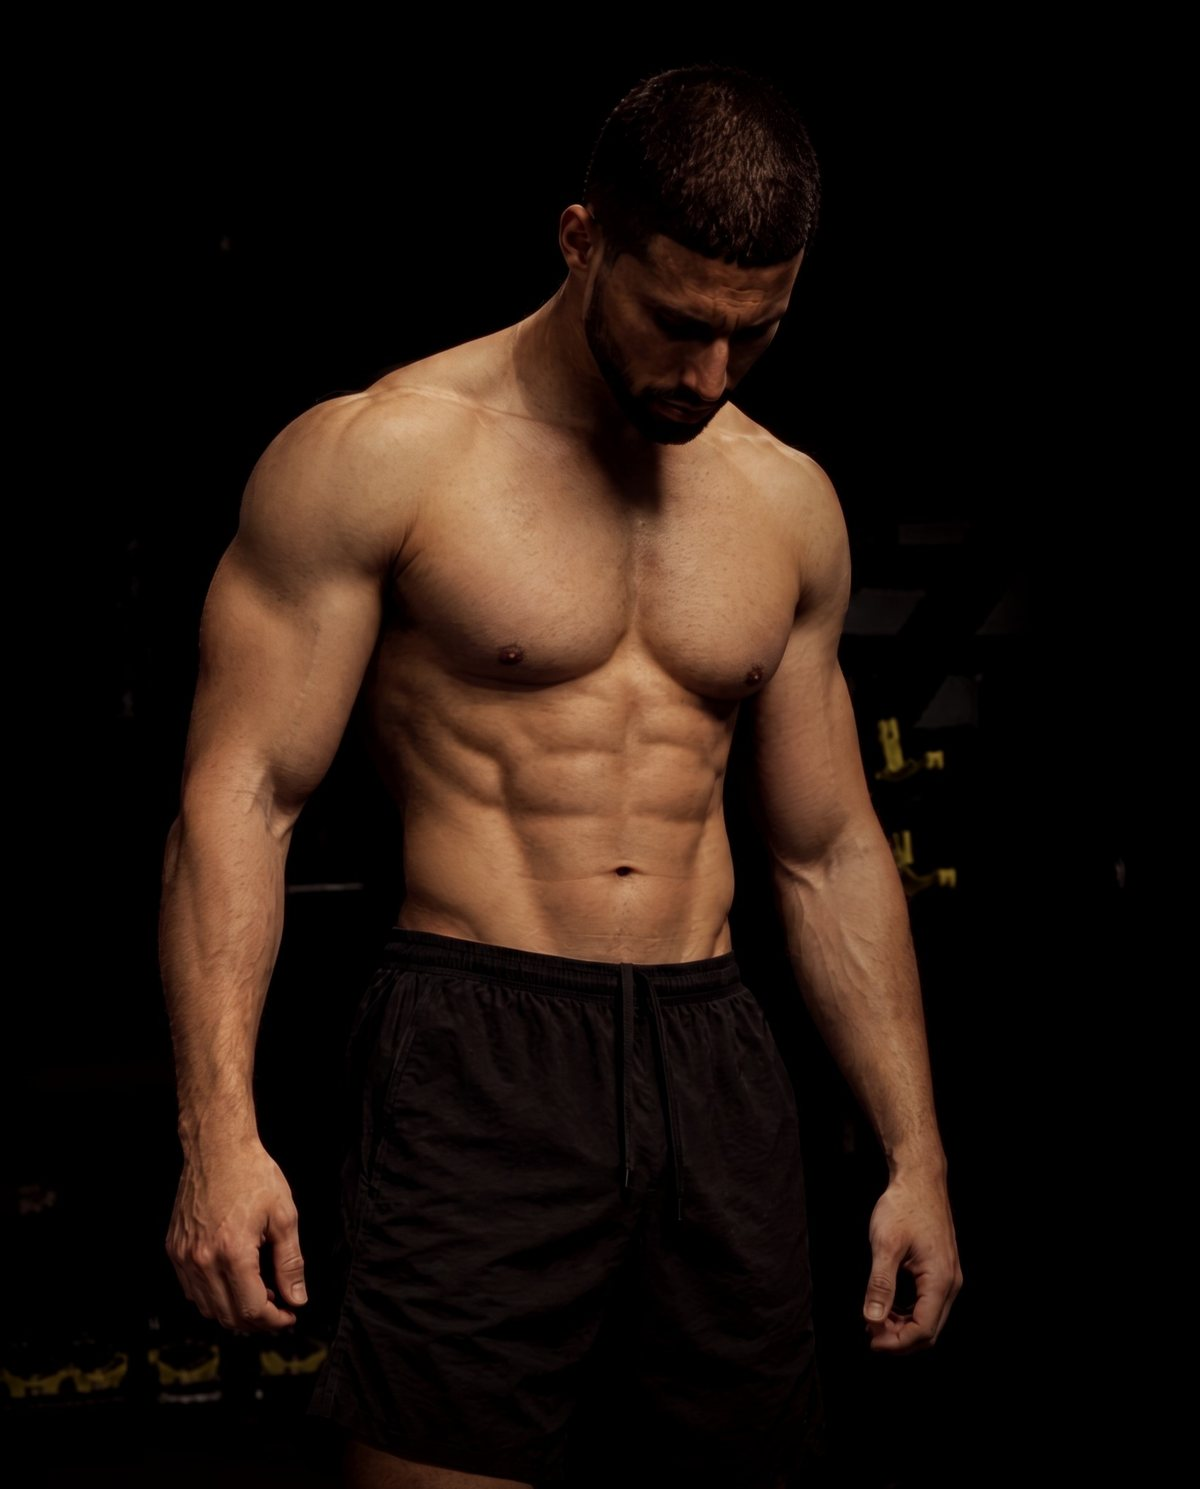
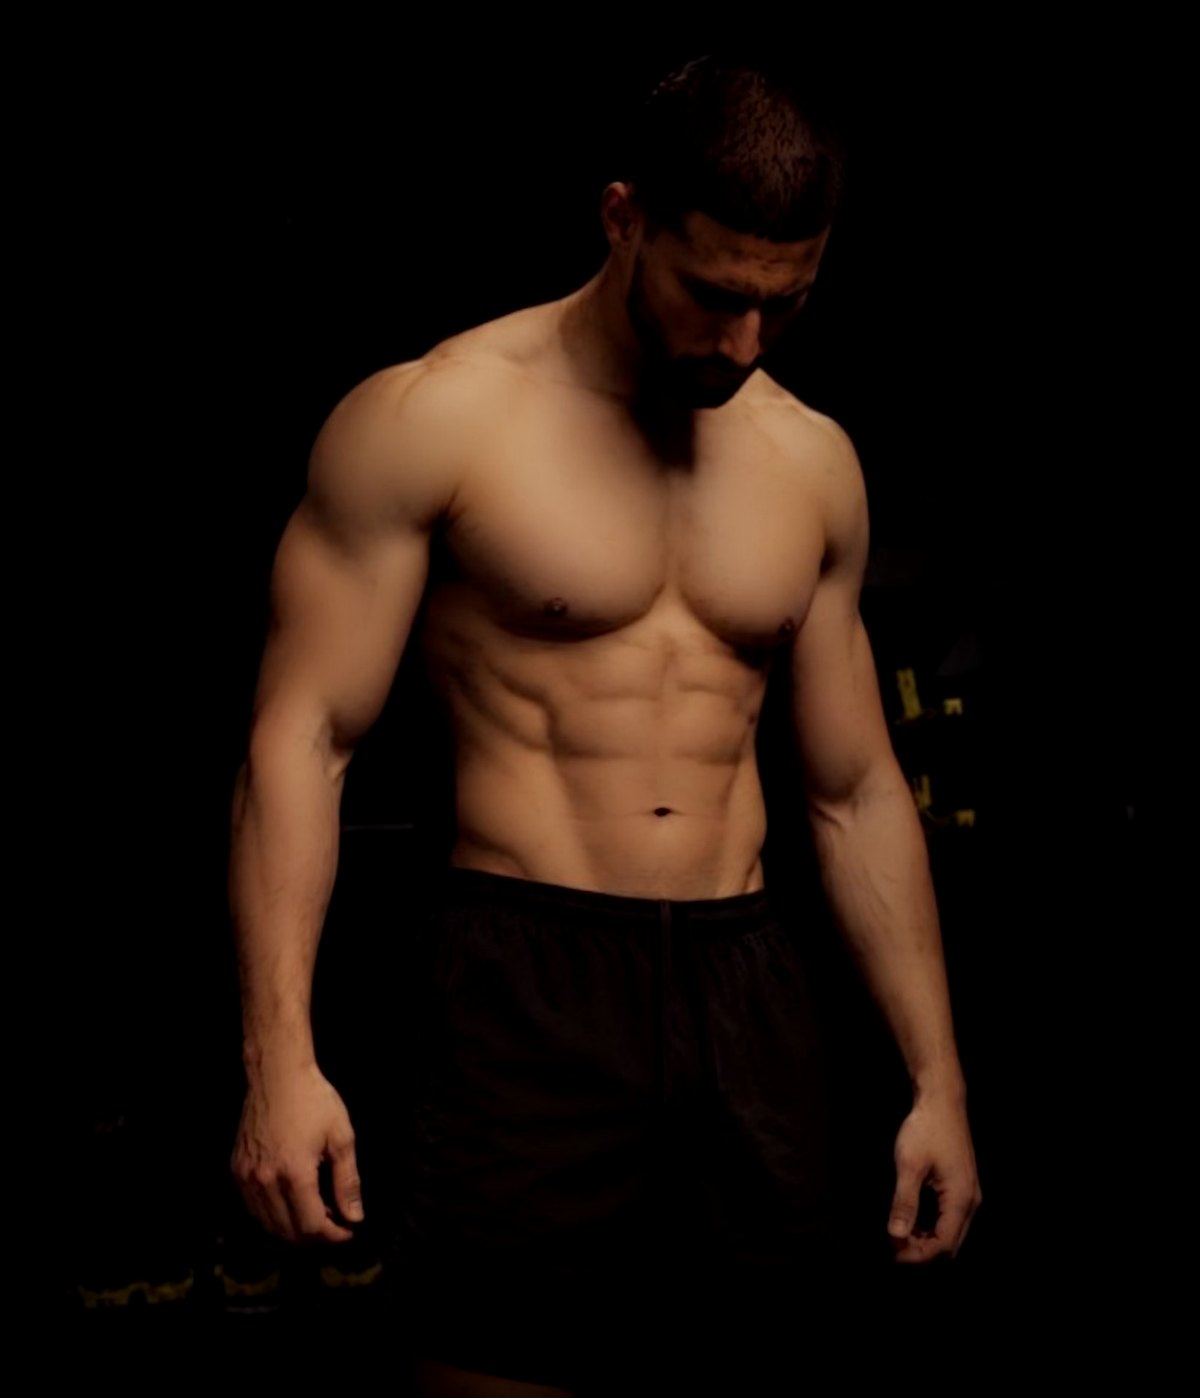
Coaching hero: Cris's edited photo
Claude-Session: https://claude.ai/code/session_01JVtyGLL2rkCAeaZXtAcKGK

diff --git a/coaching.html b/coaching.html
@@ -10,7 +10,7 @@
 <link rel="apple-touch-icon" href="/assets/img/apple-touch-icon.png">
 <link rel="preconnect" href="https://fonts.googleapis.com">
 <link rel="stylesheet" href="https://fonts.googleapis.com/css2?family=Russo+One&family=Bebas+Neue&family=Inter:wght@400;500;600;700&display=swap">
-<link rel="stylesheet" href="/assets/style.css?v=202610272122">
+<link rel="stylesheet" href="/assets/style.css?v=202610272137">
 <script defer src="/_vercel/insights/script.js"></script>
 <script>
 !function(t,e){var o,n,p,r;e.__SV||(window.posthog=e,e._i=[],e.init=function(i,s,a){function g(t,e){var o=e.split(".");2==o.length&&(t=t[o[0]],e=o[1]),t[e]=function(){t.push([e].concat(Array.prototype.slice.call(arguments,0)))}}(p=t.createElement("script")).type="text/javascript",p.crossOrigin="anonymous",p.async=!0,p.src=s.api_host.replace(".i.posthog.com","-assets.i.posthog.com")+"/static/array.js",(r=t.getElementsByTagName("script")[0]).parentNode.insertBefore(p,r);var u=e;for(void 0!==a?u=e[a]=[]:a="posthog",u.people=u.people||[],u.toString=function(t){var e="posthog";return"posthog"!==a&&(e+="."+a),t||(e+=" (stub)"),e},u.people.toString=function(){return u.toString(1)+".people (stub)"},o="init capture register register_once register_for_session unregister unregister_for_session getFeatureFlag getFeatureFlagPayload isFeatureEnabled reloadFeatureFlags updateEarlyAccessFeatureEnrollment getEarlyAccessFeatures on onFeatureFlags onSessionId getSurveys getActiveMatchingSurveys renderSurvey canRenderSurvey identify setPersonProperties group resetGroups setPersonPropertiesForFlags resetPersonPropertiesForFlags setGroupPropertiesForFlags resetGroupPropertiesForFlags reset get_distinct_id getGroups get_session_id get_session_replay_url alias set_config startSessionRecording stopSessionRecording sessionRecordingStarted captureException loadToolbar get_property getSessionProperty createPersonProfile opt_in_capturing opt_out_capturing has_opted_in_capturing has_opted_out_capturing clear_opt_in_out_capturing debug getPageViewId captureTraceFeedback captureTraceMetric".split(" "),n=0;n<o.length;n++)g(u,o[n]);e._i.push([i,s,a])},e.__SV=1)}(document,window.posthog||[]);
@@ -52,8 +52,8 @@ posthog.init('phc_C28JrHMEpH7d9g8dcuLgvfjdZ2WqwZE8aeRjLSCBrC3R',{api_host:'https
     </div>
     <div class="coach-photo">
       <picture>
-        <source srcset="/assets/img/cris-hero.webp" type="image/webp">
-        <img src="/assets/img/cris-hero.jpg" alt="Cris, Gaincations coach" width="1200" height="1489" fetchpriority="high">
+        <source srcset="/assets/img/cris-hero.webp?v=202610272137" type="image/webp">
+        <img src="/assets/img/cris-hero.jpg?v=202610272137" alt="Cris, Gaincations coach" width="1200" height="1398" fetchpriority="high">
       </picture>
     </div>
   </div>
@@ -191,6 +191,6 @@ posthog.init('phc_C28JrHMEpH7d9g8dcuLgvfjdZ2WqwZE8aeRjLSCBrC3R',{api_host:'https
   </div>
 </footer>
 <script>document.getElementById("y").textContent=new Date().getFullYear()</script>
-<script src="/assets/site.js?v=202610272122"></script>
+<script src="/assets/site.js?v=202610272137"></script>
 </body>
 </html>

diff --git a/index.html b/index.html
@@ -13,7 +13,7 @@
 <link rel="apple-touch-icon" href="/assets/img/apple-touch-icon.png">
 <link rel="preconnect" href="https://fonts.googleapis.com">
 <link rel="stylesheet" href="https://fonts.googleapis.com/css2?family=Russo+One&family=Bebas+Neue&family=Inter:wght@400;500;600;700&display=swap">
-<link rel="stylesheet" href="/assets/style.css?v=202610272122">
+<link rel="stylesheet" href="/assets/style.css?v=202610272137">
 <script defer src="/_vercel/insights/script.js"></script>
 <script>
 !function(t,e){var o,n,p,r;e.__SV||(window.posthog=e,e._i=[],e.init=function(i,s,a){function g(t,e){var o=e.split(".");2==o.length&&(t=t[o[0]],e=o[1]),t[e]=function(){t.push([e].concat(Array.prototype.slice.call(arguments,0)))}}(p=t.createElement("script")).type="text/javascript",p.crossOrigin="anonymous",p.async=!0,p.src=s.api_host.replace(".i.posthog.com","-assets.i.posthog.com")+"/static/array.js",(r=t.getElementsByTagName("script")[0]).parentNode.insertBefore(p,r);var u=e;for(void 0!==a?u=e[a]=[]:a="posthog",u.people=u.people||[],u.toString=function(t){var e="posthog";return"posthog"!==a&&(e+="."+a),t||(e+=" (stub)"),e},u.people.toString=function(){return u.toString(1)+".people (stub)"},o="init capture register register_once register_for_session unregister unregister_for_session getFeatureFlag getFeatureFlagPayload isFeatureEnabled reloadFeatureFlags updateEarlyAccessFeatureEnrollment getEarlyAccessFeatures on onFeatureFlags onSessionId getSurveys getActiveMatchingSurveys renderSurvey canRenderSurvey identify setPersonProperties group resetGroups setPersonPropertiesForFlags resetPersonPropertiesForFlags setGroupPropertiesForFlags resetGroupPropertiesForFlags reset get_distinct_id getGroups get_session_id get_session_replay_url alias set_config startSessionRecording stopSessionRecording sessionRecordingStarted captureException loadToolbar get_property getSessionProperty createPersonProfile opt_in_capturing opt_out_capturing has_opted_in_capturing has_opted_out_capturing clear_opt_in_out_capturing debug getPageViewId captureTraceFeedback captureTraceMetric".split(" "),n=0;n<o.length;n++)g(u,o[n]);e._i.push([i,s,a])},e.__SV=1)}(document,window.posthog||[]);
@@ -215,7 +215,7 @@ posthog.init('phc_C28JrHMEpH7d9g8dcuLgvfjdZ2WqwZE8aeRjLSCBrC3R',{api_host:'https
   </div>
 </footer>
 <script>document.getElementById("y").textContent=new Date().getFullYear()</script>
-<script src="/assets/quiz.js?v=202610272122"></script>
-<script src="/assets/site.js?v=202610272122"></script>
+<script src="/assets/quiz.js?v=202610272137"></script>
+<script src="/assets/site.js?v=202610272137"></script>
 </body>
 </html>

diff --git a/agreement.html b/agreement.html
@@ -10,7 +10,7 @@
 <link rel="apple-touch-icon" href="/assets/img/apple-touch-icon.png">
 <link rel="preconnect" href="https://fonts.googleapis.com">
 <link rel="stylesheet" href="https://fonts.googleapis.com/css2?family=Russo+One&family=Bebas+Neue&family=Inter:wght@400;500;600;700&display=swap">
-<link rel="stylesheet" href="/assets/style.css?v=202610272122">
+<link rel="stylesheet" href="/assets/style.css?v=202610272137">
 <script defer src="/_vercel/insights/script.js"></script>
 <script>
 !function(t,e){var o,n,p,r;e.__SV||(window.posthog=e,e._i=[],e.init=function(i,s,a){function g(t,e){var o=e.split(".");2==o.length&&(t=t[o[0]],e=o[1]),t[e]=function(){t.push([e].concat(Array.prototype.slice.call(arguments,0)))}}(p=t.createElement("script")).type="text/javascript",p.crossOrigin="anonymous",p.async=!0,p.src=s.api_host.replace(".i.posthog.com","-assets.i.posthog.com")+"/static/array.js",(r=t.getElementsByTagName("script")[0]).parentNode.insertBefore(p,r);var u=e;for(void 0!==a?u=e[a]=[]:a="posthog",u.people=u.people||[],u.toString=function(t){var e="posthog";return"posthog"!==a&&(e+="."+a),t||(e+=" (stub)"),e},u.people.toString=function(){return u.toString(1)+".people (stub)"},o="init capture register register_once register_for_session unregister unregister_for_session getFeatureFlag getFeatureFlagPayload isFeatureEnabled reloadFeatureFlags updateEarlyAccessFeatureEnrollment getEarlyAccessFeatures on onFeatureFlags onSessionId getSurveys getActiveMatchingSurveys renderSurvey canRenderSurvey identify setPersonProperties group resetGroups setPersonPropertiesForFlags resetPersonPropertiesForFlags setGroupPropertiesForFlags resetGroupPropertiesForFlags reset get_distinct_id getGroups get_session_id get_session_replay_url alias set_config startSessionRecording stopSessionRecording sessionRecordingStarted captureException loadToolbar get_property getSessionProperty createPersonProfile opt_in_capturing opt_out_capturing has_opted_in_capturing has_opted_out_capturing clear_opt_in_out_capturing debug getPageViewId captureTraceFeedback captureTraceMetric".split(" "),n=0;n<o.length;n++)g(u,o[n]);e._i.push([i,s,a])},e.__SV=1)}(document,window.posthog||[]);
@@ -89,7 +89,7 @@ posthog.init('phc_C28JrHMEpH7d9g8dcuLgvfjdZ2WqwZE8aeRjLSCBrC3R',{api_host:'https
   </div>
 </footer>
 <script>document.getElementById("y").textContent=new Date().getFullYear()</script>
-<script src="/assets/site.js?v=202610272122"></script>
+<script src="/assets/site.js?v=202610272137"></script>
 <script>try{posthog.capture("purchase_completed")}catch(e){}</script>
 </body>
 </html>

diff --git a/welcome.html b/welcome.html
@@ -10,7 +10,7 @@
 <link rel="apple-touch-icon" href="/assets/img/apple-touch-icon.png">
 <link rel="preconnect" href="https://fonts.googleapis.com">
 <link rel="stylesheet" href="https://fonts.googleapis.com/css2?family=Russo+One&family=Bebas+Neue&family=Inter:wght@400;500;600;700&display=swap">
-<link rel="stylesheet" href="/assets/style.css?v=202610272122">
+<link rel="stylesheet" href="/assets/style.css?v=202610272137">
 <script defer src="/_vercel/insights/script.js"></script>
 <script>
 !function(t,e){var o,n,p,r;e.__SV||(window.posthog=e,e._i=[],e.init=function(i,s,a){function g(t,e){var o=e.split(".");2==o.length&&(t=t[o[0]],e=o[1]),t[e]=function(){t.push([e].concat(Array.prototype.slice.call(arguments,0)))}}(p=t.createElement("script")).type="text/javascript",p.crossOrigin="anonymous",p.async=!0,p.src=s.api_host.replace(".i.posthog.com","-assets.i.posthog.com")+"/static/array.js",(r=t.getElementsByTagName("script")[0]).parentNode.insertBefore(p,r);var u=e;for(void 0!==a?u=e[a]=[]:a="posthog",u.people=u.people||[],u.toString=function(t){var e="posthog";return"posthog"!==a&&(e+="."+a),t||(e+=" (stub)"),e},u.people.toString=function(){return u.toString(1)+".people (stub)"},o="init capture register register_once register_for_session unregister unregister_for_session getFeatureFlag getFeatureFlagPayload isFeatureEnabled reloadFeatureFlags updateEarlyAccessFeatureEnrollment getEarlyAccessFeatures on onFeatureFlags onSessionId getSurveys getActiveMatchingSurveys renderSurvey canRenderSurvey identify setPersonProperties group resetGroups setPersonPropertiesForFlags resetPersonPropertiesForFlags setGroupPropertiesForFlags resetGroupPropertiesForFlags reset get_distinct_id getGroups get_session_id get_session_replay_url alias set_config startSessionRecording stopSessionRecording sessionRecordingStarted captureException loadToolbar get_property getSessionProperty createPersonProfile opt_in_capturing opt_out_capturing has_opted_in_capturing has_opted_out_capturing clear_opt_in_out_capturing debug getPageViewId captureTraceFeedback captureTraceMetric".split(" "),n=0;n<o.length;n++)g(u,o[n]);e._i.push([i,s,a])},e.__SV=1)}(document,window.posthog||[]);
@@ -78,7 +78,7 @@ posthog.init('phc_C28JrHMEpH7d9g8dcuLgvfjdZ2WqwZE8aeRjLSCBrC3R',{api_host:'https
   </div>
 </footer>
 <script>document.getElementById("y").textContent=new Date().getFullYear()</script>
-<script src="/assets/site.js?v=202610272122"></script>
+<script src="/assets/site.js?v=202610272137"></script>
 <script>try{posthog.capture("purchase_completed")}catch(e){}</script>
 </body>
 </html>

diff --git a/gear.html b/gear.html
@@ -10,7 +10,7 @@
 <link rel="apple-touch-icon" href="/assets/img/apple-touch-icon.png">
 <link rel="preconnect" href="https://fonts.googleapis.com">
 <link rel="stylesheet" href="https://fonts.googleapis.com/css2?family=Russo+One&family=Inter:wght@400;500;600;700&display=swap">
-<link rel="stylesheet" href="/assets/style.css?v=202610272122">
+<link rel="stylesheet" href="/assets/style.css?v=202610272137">
 <script defer src="/_vercel/insights/script.js"></script>
 <script>
 !function(t,e){var o,n,p,r;e.__SV||(window.posthog=e,e._i=[],e.init=function(i,s,a){function g(t,e){var o=e.split(".");2==o.length&&(t=t[o[0]],e=o[1]),t[e]=function(){t.push([e].concat(Array.prototype.slice.call(arguments,0)))}}(p=t.createElement("script")).type="text/javascript",p.crossOrigin="anonymous",p.async=!0,p.src=s.api_host.replace(".i.posthog.com","-assets.i.posthog.com")+"/static/array.js",(r=t.getElementsByTagName("script")[0]).parentNode.insertBefore(p,r);var u=e;for(void 0!==a?u=e[a]=[]:a="posthog",u.people=u.people||[],u.toString=function(t){var e="posthog";return"posthog"!==a&&(e+="."+a),t||(e+=" (stub)"),e},u.people.toString=function(){return u.toString(1)+".people (stub)"},o="init capture register register_once register_for_session unregister unregister_for_session getFeatureFlag getFeatureFlagPayload isFeatureEnabled reloadFeatureFlags updateEarlyAccessFeatureEnrollment getEarlyAccessFeatures on onFeatureFlags onSessionId getSurveys getActiveMatchingSurveys renderSurvey canRenderSurvey identify setPersonProperties group resetGroups setPersonPropertiesForFlags resetPersonPropertiesForFlags setGroupPropertiesForFlags resetGroupPropertiesForFlags reset get_distinct_id getGroups get_session_id get_session_replay_url alias set_config startSessionRecording stopSessionRecording sessionRecordingStarted captureException loadToolbar get_property getSessionProperty createPersonProfile opt_in_capturing opt_out_capturing has_opted_in_capturing has_opted_out_capturing clear_opt_in_out_capturing debug getPageViewId captureTraceFeedback captureTraceMetric".split(" "),n=0;n<o.length;n++)g(u,o[n]);e._i.push([i,s,a])},e.__SV=1)}(document,window.posthog||[]);
@@ -100,6 +100,6 @@ posthog.init('phc_C28JrHMEpH7d9g8dcuLgvfjdZ2WqwZE8aeRjLSCBrC3R',{api_host:'https
   </div>
 </footer>
 <script>document.getElementById("y").textContent=new Date().getFullYear()</script>
-<script src="/assets/site.js?v=202610272122"></script>
+<script src="/assets/site.js?v=202610272137"></script>
 </body>
 </html>

diff --git a/free.html b/free.html
@@ -10,7 +10,7 @@
 <link rel="apple-touch-icon" href="/assets/img/apple-touch-icon.png">
 <link rel="preconnect" href="https://fonts.googleapis.com">
 <link rel="stylesheet" href="https://fonts.googleapis.com/css2?family=Russo+One&family=Inter:wght@400;500;600;700&display=swap">
-<link rel="stylesheet" href="/assets/style.css?v=202610272122">
+<link rel="stylesheet" href="/assets/style.css?v=202610272137">
 <script defer src="/_vercel/insights/script.js"></script>
 <script>
 !function(t,e){var o,n,p,r;e.__SV||(window.posthog=e,e._i=[],e.init=function(i,s,a){function g(t,e){var o=e.split(".");2==o.length&&(t=t[o[0]],e=o[1]),t[e]=function(){t.push([e].concat(Array.prototype.slice.call(arguments,0)))}}(p=t.createElement("script")).type="text/javascript",p.crossOrigin="anonymous",p.async=!0,p.src=s.api_host.replace(".i.posthog.com","-assets.i.posthog.com")+"/static/array.js",(r=t.getElementsByTagName("script")[0]).parentNode.insertBefore(p,r);var u=e;for(void 0!==a?u=e[a]=[]:a="posthog",u.people=u.people||[],u.toString=function(t){var e="posthog";return"posthog"!==a&&(e+="."+a),t||(e+=" (stub)"),e},u.people.toString=function(){return u.toString(1)+".people (stub)"},o="init capture register register_once register_for_session unregister unregister_for_session getFeatureFlag getFeatureFlagPayload isFeatureEnabled reloadFeatureFlags updateEarlyAccessFeatureEnrollment getEarlyAccessFeatures on onFeatureFlags onSessionId getSurveys getActiveMatchingSurveys renderSurvey canRenderSurvey identify setPersonProperties group resetGroups setPersonPropertiesForFlags resetPersonPropertiesForFlags setGroupPropertiesForFlags resetGroupPropertiesForFlags reset get_distinct_id getGroups get_session_id get_session_replay_url alias set_config startSessionRecording stopSessionRecording sessionRecordingStarted captureException loadToolbar get_property getSessionProperty createPersonProfile opt_in_capturing opt_out_capturing has_opted_in_capturing has_opted_out_capturing clear_opt_in_out_capturing debug getPageViewId captureTraceFeedback captureTraceMetric".split(" "),n=0;n<o.length;n++)g(u,o[n]);e._i.push([i,s,a])},e.__SV=1)}(document,window.posthog||[]);
@@ -84,6 +84,6 @@ posthog.init('phc_C28JrHMEpH7d9g8dcuLgvfjdZ2WqwZE8aeRjLSCBrC3R',{api_host:'https
   </div>
 </footer>
 <script>document.getElementById("y").textContent=new Date().getFullYear()</script>
-<script src="/assets/site.js?v=202610272122"></script>
+<script src="/assets/site.js?v=202610272137"></script>
 </body>
 </html>

diff --git a/programs.html b/programs.html
@@ -11,7 +11,7 @@
 <link rel="apple-touch-icon" href="/assets/img/apple-touch-icon.png">
 <link rel="preconnect" href="https://fonts.googleapis.com">
 <link rel="stylesheet" href="https://fonts.googleapis.com/css2?family=Russo+One&family=Inter:wght@400;500;600;700&display=swap">
-<link rel="stylesheet" href="/assets/style.css?v=202610272122">
+<link rel="stylesheet" href="/assets/style.css?v=202610272137">
 <script defer src="/_vercel/insights/script.js"></script>
 <script>
 !function(t,e){var o,n,p,r;e.__SV||(window.posthog=e,e._i=[],e.init=function(i,s,a){function g(t,e){var o=e.split(".");2==o.length&&(t=t[o[0]],e=o[1]),t[e]=function(){t.push([e].concat(Array.prototype.slice.call(arguments,0)))}}(p=t.createElement("script")).type="text/javascript",p.crossOrigin="anonymous",p.async=!0,p.src=s.api_host.replace(".i.posthog.com","-assets.i.posthog.com")+"/static/array.js",(r=t.getElementsByTagName("script")[0]).parentNode.insertBefore(p,r);var u=e;for(void 0!==a?u=e[a]=[]:a="posthog",u.people=u.people||[],u.toString=function(t){var e="posthog";return"posthog"!==a&&(e+="."+a),t||(e+=" (stub)"),e},u.people.toString=function(){return u.toString(1)+".people (stub)"},o="init capture register register_once register_for_session unregister unregister_for_session getFeatureFlag getFeatureFlagPayload isFeatureEnabled reloadFeatureFlags updateEarlyAccessFeatureEnrollment getEarlyAccessFeatures on onFeatureFlags onSessionId getSurveys getActiveMatchingSurveys renderSurvey canRenderSurvey identify setPersonProperties group resetGroups setPersonPropertiesForFlags resetPersonPropertiesForFlags setGroupPropertiesForFlags resetGroupPropertiesForFlags reset get_distinct_id getGroups get_session_id get_session_replay_url alias set_config startSessionRecording stopSessionRecording sessionRecordingStarted captureException loadToolbar get_property getSessionProperty createPersonProfile opt_in_capturing opt_out_capturing has_opted_in_capturing has_opted_out_capturing clear_opt_in_out_capturing debug getPageViewId captureTraceFeedback captureTraceMetric".split(" "),n=0;n<o.length;n++)g(u,o[n]);e._i.push([i,s,a])},e.__SV=1)}(document,window.posthog||[]);
@@ -77,6 +77,6 @@ posthog.init('phc_C28JrHMEpH7d9g8dcuLgvfjdZ2WqwZE8aeRjLSCBrC3R',{api_host:'https
   </div>
 </footer>
 <script>document.getElementById("y").textContent=new Date().getFullYear()</script>
-<script src="/assets/site.js?v=202610272122"></script>
+<script src="/assets/site.js?v=202610272137"></script>
 </body>
 </html>
